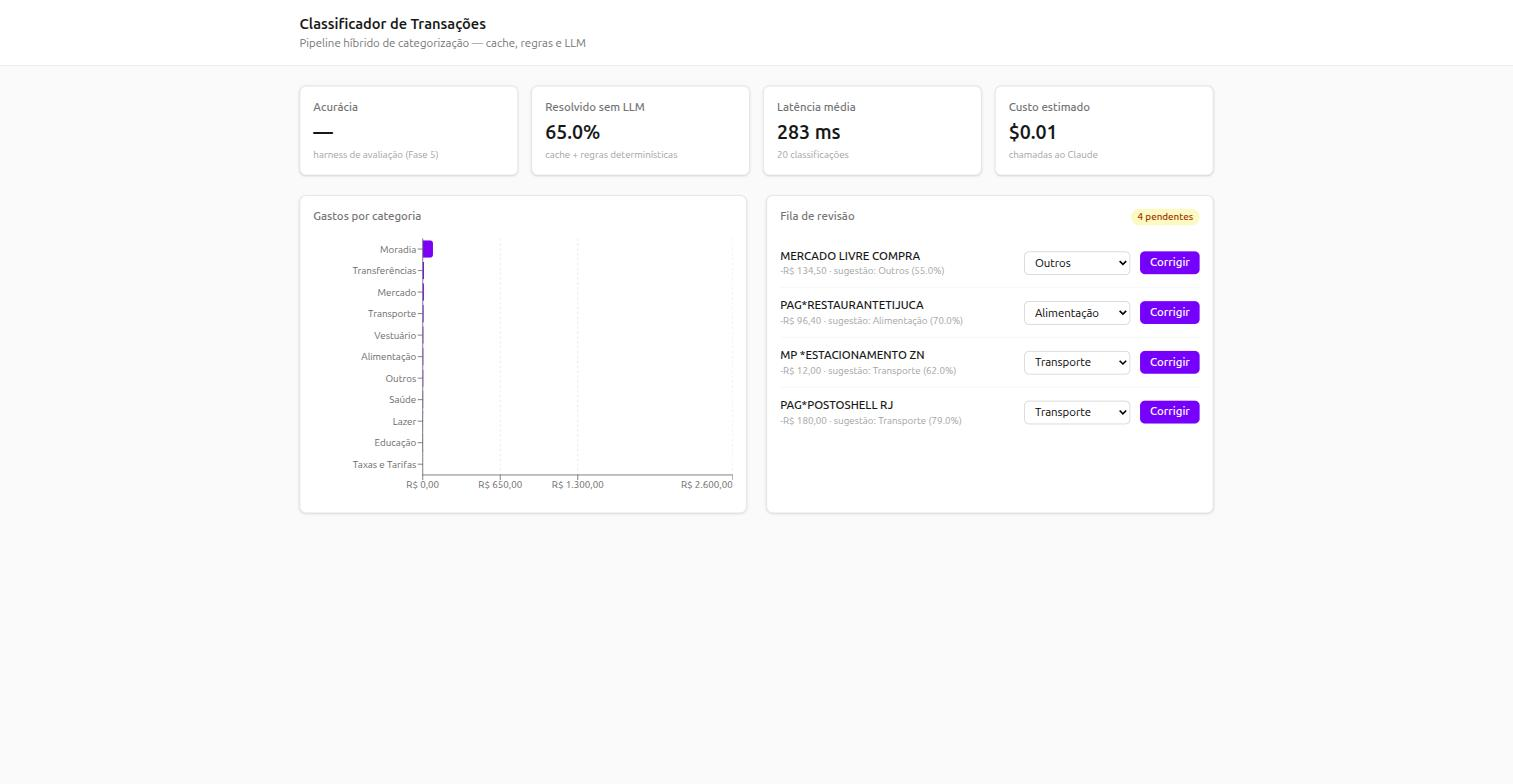
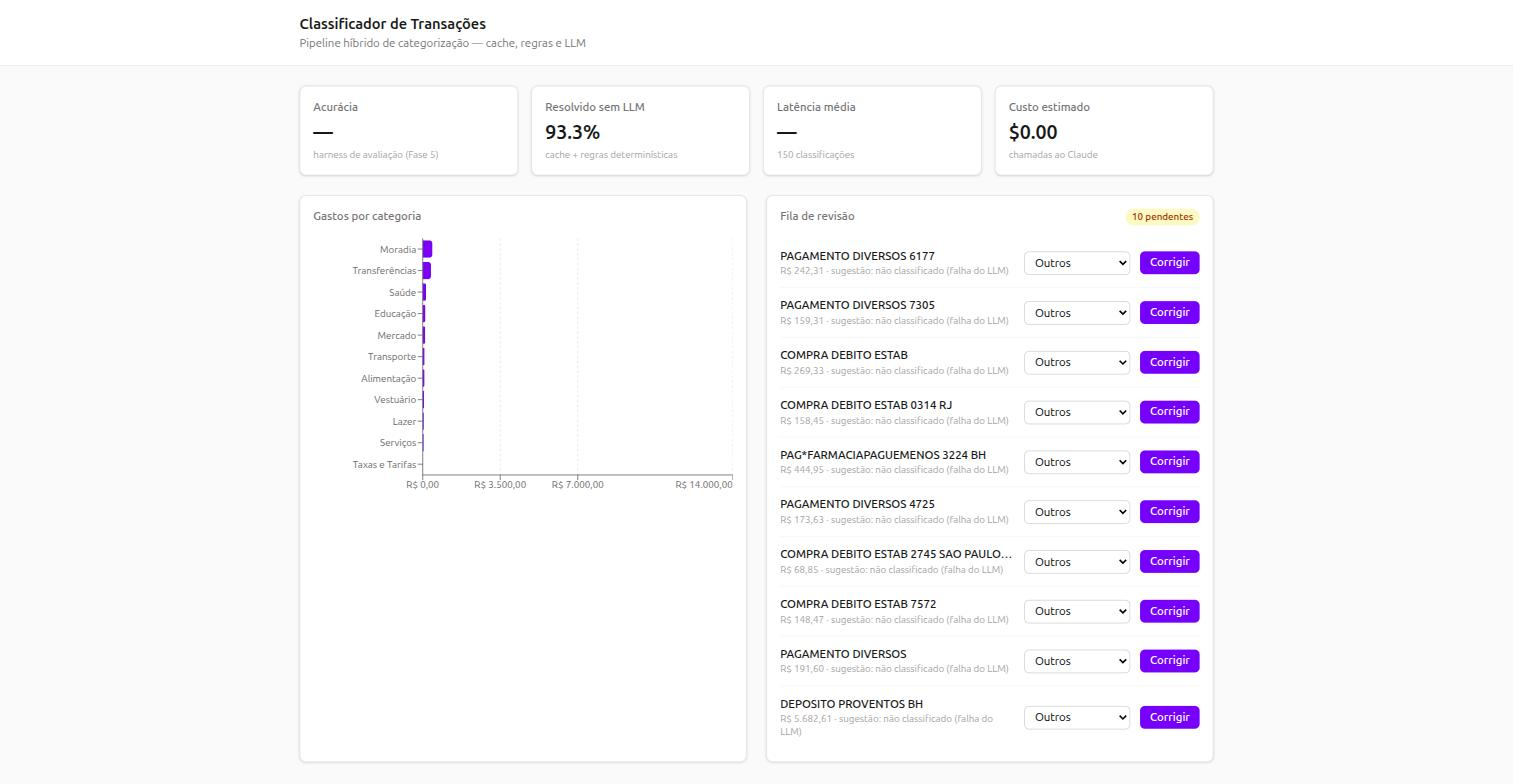
fix(frontend): corrige percentual duplicado nos cards de métricas
resolvedWithoutLlmPct e accuracy já vêm em escala 0-100 do backend;
formatPercent assume fração 0-1 (usado também pra confidence), então
o card mostrava 9333.3% em vez de 93.3%. Adiciona formatPercentValue
pros dois campos que já vêm em escala de porcentagem.

Também substitui o screenshot mock do dashboard por um real, capturado
contra a API rodando com os dados seedados.

diff --git a/frontend/src/components/MetricCards.tsx b/frontend/src/components/MetricCards.tsx
@@ -1,5 +1,5 @@
 import type { Metrics } from '../types/api';
-import { formatMs, formatPercent, formatUSD } from '../lib/format';
+import { formatMs, formatPercentValue, formatUSD } from '../lib/format';
 
 interface MetricCardsProps {
   metrics: Metrics;
@@ -15,12 +15,12 @@ export function MetricCards({ metrics }: MetricCardsProps) {
   const cards: CardDef[] = [
     {
       label: 'Acurácia',
-      value: metrics.accuracy != null ? formatPercent(metrics.accuracy) : '—',
+      value: metrics.accuracy != null ? formatPercentValue(metrics.accuracy) : '—',
       hint: 'harness de avaliação (Fase 5)',
     },
     {
       label: 'Resolvido sem LLM',
-      value: formatPercent(metrics.resolvedWithoutLlmPct),
+      value: formatPercentValue(metrics.resolvedWithoutLlmPct),
       hint: 'cache + regras determinísticas',
     },
     {

diff --git a/frontend/src/lib/format.ts b/frontend/src/lib/format.ts
@@ -10,6 +10,12 @@ export function formatPercent(value: number): string {
   return `${(value * 100).toFixed(1)}%`;
 }
 
+// For values already on a 0-100 scale (e.g. metrics.accuracy, resolvedWithoutLlmPct),
+// as opposed to formatPercent's 0-1 fraction (e.g. classification confidence).
+export function formatPercentValue(value: number): string {
+  return `${value.toFixed(1)}%`;
+}
+
 export function formatMs(value: number): string {
   return `${value.toLocaleString('pt-BR')} ms`;
 }

diff --git a/README.md b/README.md
@@ -130,4 +130,4 @@ Reproduzir: `npm run eval:export` → rotular o CSV → `npm run eval:import -- 
 | 5 — Harness de avaliação | ✅ 100 transações rotuladas, 87% de acurácia (96,7% excluindo casos que dependem de LLM sem API key) |
 | 6 — API REST | ✅ |
 | 7 — Dashboard | ✅ integrado e validado contra a API real |
-| 8 — Fechamento | 🔄 README, CI, diagrama e avaliação prontos; falta screenshot contra dados reais e publicação em `main` |
+| 8 — Fechamento | 🔄 README, CI, diagrama, avaliação e screenshot contra dados reais prontos; falta só a publicação em `main` |
